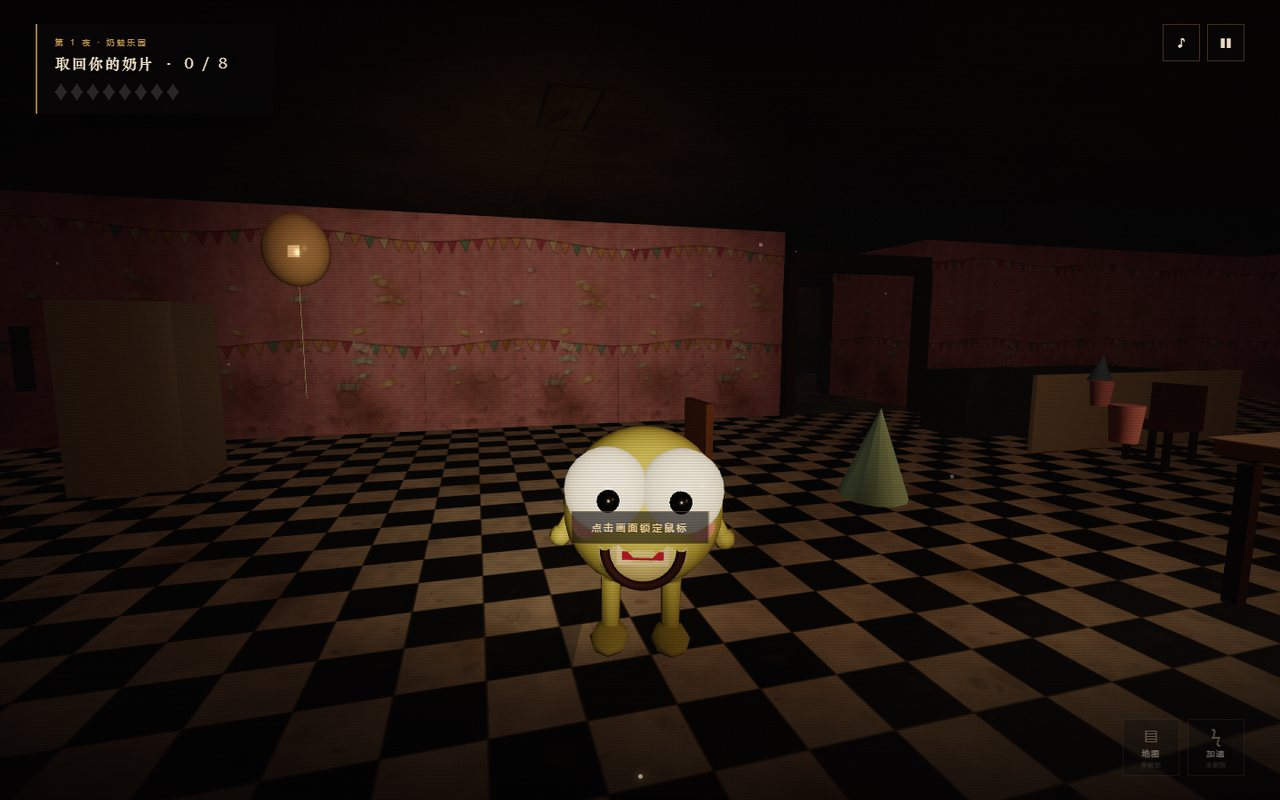
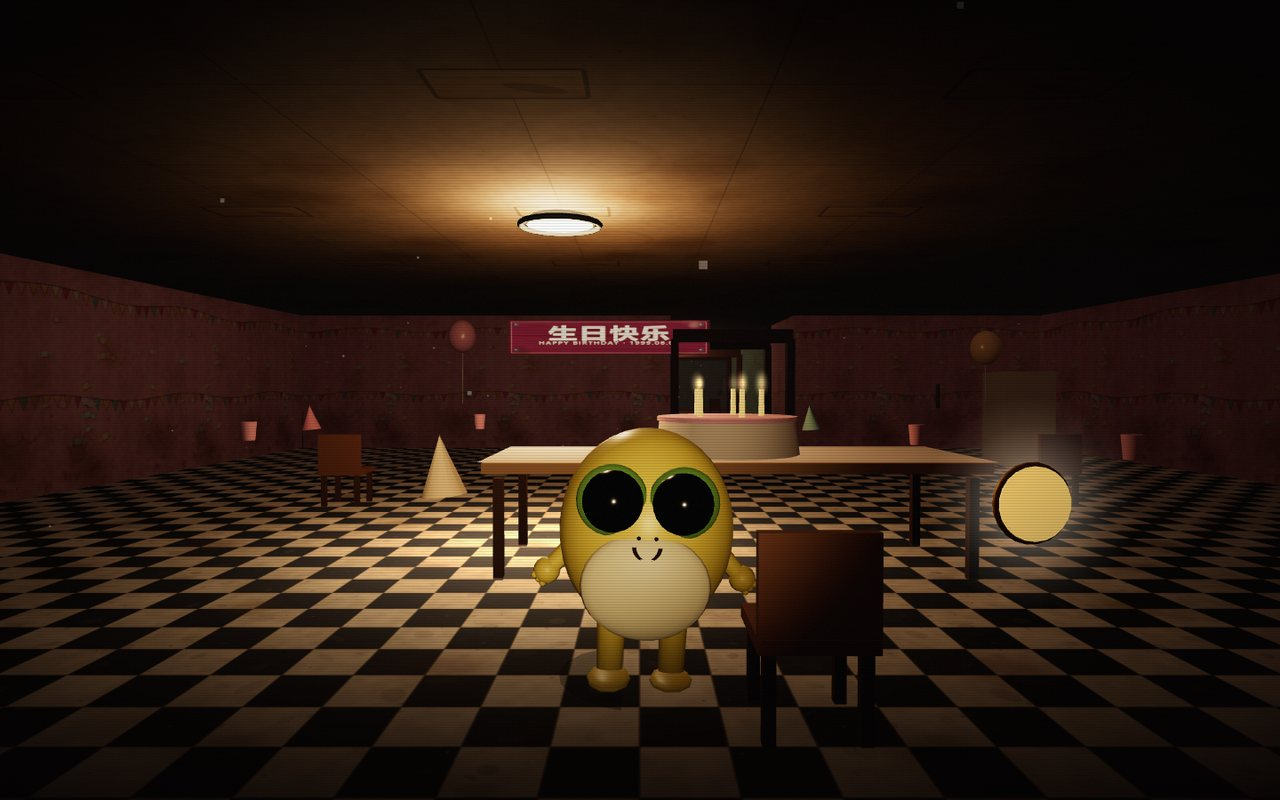
Redesign Milk Frog to match the Nailong-derived meme
- Replace generic cartoon frog with the yellow soft-body, green-ringed eyes, cream belly and tiny mouth of the 奶蛙 meme; no official assets used.
- Keep the cute blank face during idle, but split it open into an oversized laughing maw (teeth/tongue) when chasing or close.
- Rebuild the jump-scare face texture to match; update README screenshots and QA note.
- QA re-run after the visual-only change: 64/64 PASS, 0 console/pageerror.

diff --git a/src/frogs.js b/src/frogs.js
@@ -6,97 +6,130 @@ const C = GRID.cell;
 const clamp = (v, a, b) => Math.max(a, Math.min(b, v));
 const damp = (a, b, l, dt) => b + (a - b) * Math.exp(-l * dt);
 
+// 奶蛙 = 奶龙的 AI 变异体：黄色软胶身体、绿色圆眼、极小嘴；
+// 参考网络「奶蛙」表情包，不使用官方奶龙素材。靠近时裂开成大笑巨口。
 const VARIANTS = {
-  small: { bodyColor: 0xd6d46c, scale: 0.8, bodyScale: [1, 1.05, 0.95], eyeR: 0.25, legLen: 0.34, speed: 4.45, radius: 0.48 },
-  fat:   { bodyColor: 0xcec05a, scale: 1.28, bodyScale: [1.25, 1.0, 1.15], eyeR: 0.2, legLen: 0.26, speed: 4.15, radius: 0.66 },
-  tall:  { bodyColor: 0xc4c97d, scale: 1.02, bodyScale: [0.92, 1.2, 0.9], eyeR: 0.22, legLen: 0.85, speed: 4.35, radius: 0.5 },
+  small: { bodyColor: 0xf4d64a, scale: 0.78, bodyScale: [1.0, 1.14, 0.98], eyeR: 0.2, legLen: 0.3, speed: 4.45, radius: 0.48, seed: 1 },
+  fat:   { bodyColor: 0xf2d247, scale: 1.3, bodyScale: [1.2, 1.02, 1.12], eyeR: 0.17, legLen: 0.24, speed: 4.15, radius: 0.66, seed: 2 },
+  tall:  { bodyColor: 0xf6dc5a, scale: 1.0, bodyScale: [0.9, 1.34, 0.92], eyeR: 0.19, legLen: 0.55, speed: 4.35, radius: 0.5, seed: 3 },
 };
 
 function buildFrogModel(variant) {
   const v = VARIANTS[variant];
   const g = new THREE.Group();
-  const mat = new THREE.MeshStandardMaterial({ color: v.bodyColor, roughness: 0.55, metalness: 0.02 });
-  const belly = new THREE.MeshStandardMaterial({ color: 0xe8e3a8, roughness: 0.7 });
-  const white = new THREE.MeshStandardMaterial({ color: 0xf7f4e6, roughness: 0.25, emissive: 0xfff6dd, emissiveIntensity: 0.35 });
-  const black = new THREE.MeshStandardMaterial({ color: 0x0b0a08, roughness: 0.2 });
-  const mouthMat = new THREE.MeshStandardMaterial({ color: 0x40151b, roughness: 0.6 });
-  const pink = new THREE.MeshStandardMaterial({ color: 0xe8a0a8, roughness: 0.8 });
+  const yellow = new THREE.MeshStandardMaterial({ color: v.bodyColor, roughness: 0.38, metalness: 0.02, emissive: 0x3a2a05, emissiveIntensity: 0.12 });
+  const bellyMat = new THREE.MeshStandardMaterial({ color: 0xf7e9b6, roughness: 0.5 });
+  const irisMat = new THREE.MeshStandardMaterial({ color: 0x6f963c, roughness: 0.45, emissive: 0x1c2a08, emissiveIntensity: 0.4 });
+  const black = new THREE.MeshStandardMaterial({ color: 0x0a0906, roughness: 0.12 });
+  const shine = new THREE.MeshBasicMaterial({ color: 0xfff8e0 });
+  const mouthMat = new THREE.MeshStandardMaterial({ color: 0x3a1a12, roughness: 0.7 });
+  const toothMat = new THREE.MeshStandardMaterial({ color: 0xf3ead2, roughness: 0.35 });
+  const tongueMat = new THREE.MeshStandardMaterial({ color: 0xb9545c, roughness: 0.6 });
 
-  const body = new THREE.Mesh(new THREE.SphereGeometry(0.52, 22, 18), mat);
+  const bodyY = 0.78 + v.legLen;
+  const body = new THREE.Mesh(new THREE.SphereGeometry(0.62, 24, 20), yellow);
   body.scale.set(...v.bodyScale);
-  body.position.y = 0.58 + v.legLen;
+  body.position.y = bodyY;
   g.add(body);
 
-  const bellyMesh = new THREE.Mesh(new THREE.SphereGeometry(0.4, 18, 14), belly);
-  bellyMesh.scale.set(0.85, 0.9, 0.5);
-  bellyMesh.position.set(0, 0.52 + v.legLen, 0.28);
-  g.add(bellyMesh);
+  // 奶龙式奶油色肚皮
+  const belly = new THREE.Mesh(new THREE.SphereGeometry(0.42, 20, 16), bellyMat);
+  belly.scale.set(1.0, 0.82, 0.3);
+  belly.position.set(0, bodyY - 0.27, 0.55);
+  g.add(belly);
 
-  // 眼睛（前脸 +Z）
+  // 绿色大圆眼 + 黑瞳 + 高光（无眼白，参考奶蛙）
   const eyes = [];
   for (const s of [-1, 1]) {
-    const eye = new THREE.Mesh(new THREE.SphereGeometry(v.eyeR, 16, 12), white);
-    eye.position.set(s * 0.22, 0.78 + v.legLen, 0.36);
-    g.add(eye);
-    const pupil = new THREE.Mesh(new THREE.SphereGeometry(v.eyeR * 0.26, 10, 8), black);
-    pupil.position.set(s * 0.2, 0.78 + v.legLen, 0.36 + v.eyeR * 0.92);
+    const jitter = (v.seed - 2) * 0.006;
+    const ring = new THREE.Mesh(new THREE.SphereGeometry(v.eyeR * 1.16, 18, 14), irisMat);
+    ring.scale.set(1, 1, 0.42);
+    ring.position.set(s * 0.23 + jitter, bodyY + 0.27, 0.52);
+    g.add(ring);
+    const pupil = new THREE.Mesh(new THREE.SphereGeometry(v.eyeR, 16, 12), black);
+    pupil.position.set(s * 0.225 + jitter, bodyY + 0.27, 0.55);
     g.add(pupil);
-    eyes.push({ eye, pupil });
+    const highlight = new THREE.Mesh(new THREE.SphereGeometry(v.eyeR * 0.18, 8, 6), shine);
+    highlight.position.set(s * 0.225 + jitter - 0.04, bodyY + 0.31, 0.62);
+    g.add(highlight);
+    eyes.push({ ring, pupil, highlight });
   }
-  // 微笑
-  const mouth = new THREE.Mesh(new THREE.TorusGeometry(0.22, 0.028, 6, 22, Math.PI), mouthMat);
-  mouth.position.set(0, 0.46 + v.legLen, 0.47);
+
+  // 极小的一条嘴
+  const mouth = new THREE.Mesh(new THREE.TorusGeometry(0.082, 0.013, 6, 18, Math.PI), mouthMat);
+  mouth.position.set(0, bodyY + 0.0, 0.64);
   mouth.rotation.z = Math.PI;
   g.add(mouth);
-  // 腮红
+  // 两个小鼻孔
   for (const s of [-1, 1]) {
-    const cheek = new THREE.Mesh(new THREE.CircleGeometry(0.085, 12), pink);
-    cheek.position.set(s * 0.34, 0.58 + v.legLen, 0.42);
-    cheek.rotation.y = s * 0.35;
-    g.add(cheek);
+    const nose = new THREE.Mesh(new THREE.SphereGeometry(0.013, 6, 5), black);
+    nose.position.set(s * 0.055, bodyY + 0.055, 0.635);
+    g.add(nose);
   }
-  // 手
+
+  // 靠近/追逐时才裂开的大笑巨口（参考表情包里失控的奶蛙）
+  const scary = new THREE.Group();
+  scary.position.set(0, bodyY - 0.16, 0.625);
+  const cavity = new THREE.Mesh(new THREE.SphereGeometry(0.27, 20, 16), black);
+  cavity.scale.set(1.18, 0.9, 0.22);
+  scary.add(cavity);
+  for (let i = 0; i < 5; i++) {
+    const tooth = new THREE.Mesh(new THREE.BoxGeometry(0.055, 0.07, 0.02), toothMat);
+    tooth.position.set(-0.16 + i * 0.08, 0.16, 0.055);
+    scary.add(tooth);
+  }
+  for (let i = 0; i < 4; i++) {
+    const tooth = new THREE.Mesh(new THREE.BoxGeometry(0.05, 0.055, 0.02), toothMat);
+    tooth.position.set(-0.12 + i * 0.08, -0.16, 0.055);
+    scary.add(tooth);
+  }
+  const tongue = new THREE.Mesh(new THREE.SphereGeometry(0.16, 12, 10), tongueMat);
+  tongue.scale.set(1, 0.5, 0.25);
+  tongue.position.set(0, -0.07, 0.06);
+  scary.add(tongue);
+  scary.visible = false;
+  g.add(scary);
+
+  // 短手（带小手指）
   const arms = [];
   for (const s of [-1, 1]) {
-    const arm = new THREE.Mesh(new THREE.CylinderGeometry(0.055, 0.05, 0.34, 7), mat);
-    arm.position.set(s * 0.44, 0.55 + v.legLen, 0.08);
-    arm.rotation.z = s * 0.5;
+    const arm = new THREE.Mesh(new THREE.CylinderGeometry(0.07, 0.062, 0.34, 8), yellow);
+    arm.position.set(s * 0.56 * v.bodyScale[0], bodyY - 0.18, 0.06);
+    arm.rotation.z = s * 0.75;
     g.add(arm);
-    const hand = new THREE.Mesh(new THREE.SphereGeometry(0.07, 8, 6), mat);
-    hand.position.y = -0.18;
+    const hand = new THREE.Mesh(new THREE.SphereGeometry(0.095, 10, 8), yellow);
+    hand.position.y = -0.19;
     arm.add(hand);
+    for (let f = -1; f <= 1; f++) {
+      const finger = new THREE.Mesh(new THREE.SphereGeometry(0.026, 6, 5), yellow);
+      finger.position.set(f * 0.04, -0.075, 0.03);
+      hand.add(finger);
+    }
     arms.push(arm);
   }
-  // 腿
+  // 短腿 + 扁脚
   const legs = [];
   for (const s of [-1, 1]) {
-    const leg = new THREE.Mesh(new THREE.CylinderGeometry(0.07, 0.06, v.legLen + 0.1, 7), mat);
-    leg.position.set(s * 0.2, v.legLen / 2 + 0.03, 0);
+    const leg = new THREE.Mesh(new THREE.CylinderGeometry(0.105, 0.09, v.legLen + 0.14, 9), yellow);
+    leg.position.set(s * 0.22, (v.legLen + 0.14) / 2, 0);
     g.add(leg);
-    const foot = new THREE.Mesh(new THREE.SphereGeometry(0.13, 8, 6), mat);
-    foot.scale.set(1, 0.45, 1.7);
-    foot.position.set(0, -v.legLen / 2 + 0.02, 0.08);
+    const foot = new THREE.Mesh(new THREE.SphereGeometry(0.15, 10, 8), yellow);
+    foot.scale.set(1.05, 0.38, 1.5);
+    foot.position.set(0, -(v.legLen + 0.14) / 2 + 0.02, 0.08);
     leg.add(foot);
     legs.push(leg);
   }
-  // 胸牌
-  const sign = new THREE.Mesh(new THREE.PlaneGeometry(0.3, 0.12), new THREE.MeshStandardMaterial({ color: 0xf3e6c8, roughness: 1 }));
-  sign.position.set(0, 0.42 + v.legLen, 0.46);
-  g.add(sign);
-  const name = new THREE.Mesh(new THREE.PlaneGeometry(0.24, 0.05), new THREE.MeshBasicMaterial({ color: 0x9d2a2a }));
-  name.position.set(0, 0.42 + v.legLen, 0.466);
-  g.add(name);
 
   const shadow = new THREE.Mesh(
-    new THREE.CircleGeometry(0.55, 16),
-    new THREE.MeshBasicMaterial({ color: 0x000000, transparent: true, opacity: 0.32, depthWrite: false }),
+    new THREE.CircleGeometry(0.58, 18),
+    new THREE.MeshBasicMaterial({ color: 0x000000, transparent: true, opacity: 0.34, depthWrite: false }),
   );
   shadow.rotation.x = -Math.PI / 2;
   shadow.position.y = 0.012;
   g.add(shadow);
 
   g.scale.setScalar(v.scale);
-  return { group: g, body, belly: bellyMesh, eyes, arms, legs, mouth, shadow, variant: v };
+  return { group: g, body, belly, eyes, arms, legs, mouth, scary, shadow, variant: v };
 }
 
 class Frog {
@@ -287,24 +320,47 @@ class Frog {
   animate(dt, time, speed, dazed) {
     const m = this.model;
     const t = time + this.index * 2.1;
+    const dist = this.distanceToPlayer;
     if (dazed) {
       this.group.rotation.z = Math.sin(t * 8) * 0.12;
       m.body.rotation.y = t * 2;
-      m.eyes.forEach((e, i) => { e.eye.rotation.z = t * 5 * (i ? 1 : -1); });
+      m.eyes.forEach((e, i) => { e.pupil.rotation.z = t * 5 * (i ? 1 : -1); });
+      m.scary.visible = false;
+      m.mouth.visible = true;
       this.group.position.y = this.pos.y + Math.abs(Math.sin(t * 5)) * 0.03;
       return;
     }
     const bob = Math.sin(t * (speed > 0.2 ? 9 : 1.8)) * (speed > 0.2 ? 0.045 : 0.015);
     this.group.position.y = this.pos.y + bob;
     this.group.rotation.z = Math.sin(t * (speed > 0.2 ? 8 : 1.6)) * 0.045;
-    m.body.scale.y = 1 + Math.sin(t * 7) * (speed > 0.2 ? 0.035 : 0.012);
+    const baseY = m.variant.bodyScale[1];
+    m.body.scale.y = baseY * (1 + Math.sin(t * 7) * (speed > 0.2 ? 0.035 : 0.012));
     m.legs[0].rotation.x = Math.sin(t * 9) * 0.35 * Math.min(1, speed * 0.4);
     m.legs[1].rotation.x = -Math.sin(t * 9) * 0.35 * Math.min(1, speed * 0.4);
     m.arms[0].rotation.x = -Math.sin(t * 9) * 0.3 * Math.min(1, speed * 0.4);
     m.arms[1].rotation.x = Math.sin(t * 9) * 0.3 * Math.min(1, speed * 0.4);
+    // 越近越失控：小嘴裂成表情包里的大笑巨口
+    const open = this.state === 'chase' && dist < 10.5;
+    m.scary.visible = open;
+    m.mouth.visible = !open;
+    if (open) {
+      const k = clamp((11 - dist) / 7, 0, 1);
+      m.scary.scale.set(0.8 + 0.35 * k, 0.8 + 0.3 * k, 1);
+      m.scary.position.y = (0.78 + m.variant.legLen) - 0.16;
+      for (const e of m.eyes) {
+        e.pupil.scale.setScalar(1 + 0.16 * k);
+        e.ring.scale.z = 0.42;
+      }
+    } else {
+      for (const e of m.eyes) e.pupil.scale.setScalar(1);
+    }
     if (m.eyes) {
       const blink = (Math.sin(t * 0.7) > 0.985) ? 0.12 : 1;
-      for (const e of m.eyes) e.eye.scale.y = blink;
+      for (const e of m.eyes) {
+        e.ring.scale.y = blink;
+        e.pupil.scale.y = blink;
+        e.highlight.scale.y = blink;
+      }
     }
   }
 

diff --git a/src/textures.js b/src/textures.js
@@ -3586,40 +3586,81 @@ export function createTextures() {
       return memo('frogFace', () => {
         const surface = mkCanvas(TILE, TILE);
         const ctx = surface.ctx;
-        /* 整张皮肤 */
-        const g = ctx.createLinearGradient(0, 0, 0, TILE);
-        g.addColorStop(0, '#dceb92');
-        g.addColorStop(0.55, '#bed668');
-        g.addColorStop(1, '#9db94e');
-        ctx.fillStyle = g;
+        /* 奶蛙：AI 变异奶龙的黄色软胶皮肤，近距离贴脸时的大笑表情 */
+        const skin = ctx.createRadialGradient(256, 220, 40, 256, 256, 380);
+        skin.addColorStop(0, '#ffe168');
+        skin.addColorStop(0.55, '#f4d342');
+        skin.addColorStop(1, '#c9a322');
+        ctx.fillStyle = skin;
         ctx.fillRect(0, 0, TILE, TILE);
-        /* 皮肤颗粒 */
-        applyGrain(ctx, TILE, TILE, { seed: hashSeed('frog-skin'), grain: 12, mottle: 0.08, cells: 6 });
-        const rnd = mulberry32(hashSeed('frog-skin-speckle'));
-        for (let i = 0; i < 70; i++) {
-          const x = rnd() * TILE;
-          const y = rnd() * TILE;
-          const r = 1 + rnd() * 4;
-          dot(ctx, x, y, r, rnd() > 0.4 ? '#8fae45' : '#d7e79c', 0.18 + rnd() * 0.25);
+        applyGrain(ctx, TILE, TILE, { seed: hashSeed('naiwa-skin'), grain: 10, mottle: 0.07, cells: 5 });
+        const rnd = mulberry32(hashSeed('naiwa-specks'));
+        for (let i = 0; i < 90; i++) {
+          dot(ctx, rnd() * TILE, rnd() * TILE, 1 + rnd() * 3, rnd() > 0.5 ? '#e6c23c' : '#ffe89a', 0.1 + rnd() * 0.18);
         }
-        /* 五官 */
-        drawFrogHead(ctx, 256, 248, 198, {
-          seed: 'frog-face',
-          headFill: false,
-          pupilX: 0.015,
-          pupilY: 0.025,
-          pupilScale: 0.15,
-          blush: 0.4,
-          milk: true,
-          mouthWide: 1.05,
-        });
-        /* 四周压暗，球体感 */
-        const vig = ctx.createRadialGradient(256, 256, 150, 256, 256, 365);
-        vig.addColorStop(0, 'rgba(20,30,8,0)');
-        vig.addColorStop(1, 'rgba(20,30,8,0.55)');
+        /* 两只大圆眼：绿色虹膜 + 黑瞳 + 高光；刻意略不对称 */
+        const eyes = [
+          { x: 168, y: 170, r: 78, px: 5, py: 6, pr: 53 },
+          { x: 344, y: 166, r: 74, px: -6, py: 4, pr: 49 },
+        ];
+        for (const e of eyes) {
+          const iris = ctx.createRadialGradient(e.x, e.y, e.r * 0.2, e.x, e.y, e.r);
+          iris.addColorStop(0, '#8fae43');
+          iris.addColorStop(0.72, '#6c8f36');
+          iris.addColorStop(1, '#3f5a1c');
+          ctx.fillStyle = iris;
+          ctx.beginPath(); ctx.arc(e.x, e.y, e.r, 0, TAU); ctx.fill();
+          const pupil = ctx.createRadialGradient(e.x + e.px, e.y + e.py, 2, e.x + e.px, e.y + e.py, e.pr);
+          pupil.addColorStop(0, '#1b1a13');
+          pupil.addColorStop(0.82, '#070705');
+          pupil.addColorStop(1, '#241f0b');
+          ctx.fillStyle = pupil;
+          ctx.beginPath(); ctx.arc(e.x + e.px, e.y + e.py, e.pr, 0, TAU); ctx.fill();
+          ctx.fillStyle = 'rgba(255,250,226,.92)';
+          ctx.beginPath(); ctx.arc(e.x - e.r * 0.28, e.y - e.r * 0.3, e.r * 0.1, 0, TAU); ctx.fill();
+          ctx.strokeStyle = 'rgba(30,40,10,.55)';
+          ctx.lineWidth = 3;
+          ctx.beginPath(); ctx.arc(e.x, e.y, e.r, 0, TAU); ctx.stroke();
+        }
+        /* 两个小鼻孔 */
+        ctx.fillStyle = '#4b3a12';
+        ctx.beginPath(); ctx.ellipse(238, 252, 6, 5, 0, 0, TAU); ctx.fill();
+        ctx.beginPath(); ctx.ellipse(274, 252, 6, 5, 0, 0, TAU); ctx.fill();
+        /* 裂开的巨口 + 人牙 + 舌头 */
+        const mouth = ctx.createRadialGradient(256, 400, 20, 256, 410, 170);
+        mouth.addColorStop(0, '#2a0b09');
+        mouth.addColorStop(0.65, '#160403');
+        mouth.addColorStop(1, '#080101');
+        ctx.fillStyle = mouth;
+        ctx.beginPath();
+        ctx.ellipse(256, 338, 140, 70, 0, 0, TAU);
+        ctx.fill();
+        ctx.strokeStyle = 'rgba(80,44,12,.75)';
+        ctx.lineWidth = 12;
+        ctx.beginPath(); ctx.ellipse(256, 338, 140, 70, 0, 0, TAU); ctx.stroke();
+        ctx.fillStyle = '#f1e6c8';
+        for (let i = 0; i < 6; i++) {
+          const x = 132 + i * 50;
+          const r = 12 + Math.abs(i - 2.5) * 2;
+          ctx.beginPath(); ctx.roundRect(x - 17, 278, 34, 36 + r, 9); ctx.fill();
+        }
+        for (let i = 0; i < 5; i++) {
+          const x = 158 + i * 50;
+          ctx.beginPath(); ctx.roundRect(x - 15, 382, 30, 28, 8); ctx.fill();
+        }
+        const tongue = ctx.createRadialGradient(256, 484, 8, 256, 490, 90);
+        tongue.addColorStop(0, '#d06a72');
+        tongue.addColorStop(1, '#7e2f38');
+        ctx.fillStyle = tongue;
+        ctx.beginPath(); ctx.ellipse(256, 398, 76, 24, 0, 0, TAU); ctx.fill();
+        /* 暗角与颗粒 */
+        const vig = ctx.createRadialGradient(256, 256, 140, 256, 256, 370);
+        vig.addColorStop(0, 'rgba(10,6,2,0)');
+        vig.addColorStop(0.72, 'rgba(10,6,2,.18)');
+        vig.addColorStop(1, 'rgba(10,6,2,.78)');
         ctx.fillStyle = vig;
         ctx.fillRect(0, 0, TILE, TILE);
-        addDust(ctx, TILE, TILE, hashSeed('frog-face-dust'), 40);
+        addDust(ctx, TILE, TILE, hashSeed('naiwa-dust'), 60);
         return makeTexture(surface.canvas, false, 'frogFace', { kind: 'frogFace' });
       });
     },

diff --git a/styles.css b/styles.css
@@ -595,7 +595,8 @@ kbd {
 
 /* ============================== 转场 ============================== */
 .jumpscare { position: fixed; inset: 0; z-index: 45; background: #080303; display: flex; align-items: center; justify-content: center; overflow: hidden; pointer-events: none; }
-.jumpscare img { width: 112%; height: 112%; object-fit: cover; filter: contrast(1.25) saturate(1.15) brightness(.92); animation: scare 2.3s var(--ease) both; }
+.jumpscare { background: radial-gradient(ellipse at 50% 50%, #f6d94a 0%, #b98f22 48%, #120a05 100%); }
+.jumpscare img { width: 100%; height: 100%; object-fit: cover; filter: contrast(1.18) saturate(1.12) brightness(.92); animation: scare 2.3s var(--ease) both; }
 .jumpscare::after { content: ""; position: absolute; inset: 0; background: radial-gradient(ellipse at 50% 45%, transparent 30%, rgba(120, 6, 12, .55) 100%), repeating-linear-gradient(to bottom, transparent 0 3px, rgba(0, 0, 0, .35) 3px 4px); }
 @keyframes scare {
   0% { transform: scale(1.35) rotate(-2deg); opacity: 0; }

diff --git a/W05_GroupID.md b/W05_GroupID.md
@@ -24,12 +24,12 @@ Harness/model(s), why selected, and material AI help:
 
 Representative AI interaction — one prompt, short response or resulting change, and what we checked before keeping it:
 - **Prompt（给「贴图子代理」的节选）：** “实现 `src/textures.js`：纯 Canvas 2D 程序化贴图，零外部图片；6 个区域（门厅/教室/午睡室/食堂/走廊/出口）的墙、地、顶、墙裙；海报、中文标牌、奶蛙正脸；严格导出 `createTextures()` 与指定 API；每个区域风格统一且温馨惊悚。”
-- **Result：** 生成了约 122 KB（124,870 字节）的 `src/textures.js`（36 张 CanvasTexture）、`tools/texture-preview.html` 预览页与 `docs/TEXTURES.md`；贴图被游戏实际使用（墙纸、棋盘地砖、生日横幅、海报、安全出口牌、奶蛙脸）。
+- **Result：** 生成了约 125 KB（127,568 字节）的 `src/textures.js`（36 张 CanvasTexture）、`tools/texture-preview.html` 预览页与 `docs/TEXTURES.md`；贴图被游戏实际使用（墙纸、棋盘地砖、生日横幅、海报、安全出口牌、奶蛙脸）。
 - **What we checked before keeping it：** 用 102 条契约断言检查 API/尺寸/颜色空间/平铺参数；在 Edge 打开预览页确认 0 console error / 0 pageerror；查看整页与局部截图（墙地接缝、7 张海报、标牌、奶蛙脸）；确认游戏内有兜底贴图 `textures-fallback.js`，即使该模块异常也不会黑屏。检查后保留了这一版，并对过暗的午睡室与出口曝光做了人工调灯。
 
 Outside assets and credits (or None):
 - **Three.js 0.160.0** — MIT License，本地 vendored 于 `vendor/three.module.js`，运行时不访问 CDN。
-- **无其他外部素材。** 所有几何、贴图、灯光、音效、音乐、旁白均由本组使用代码 / Windows 中文 TTS 生成；未使用第三方图片、模型、录音或官方「奶龙 / 奶蛙」版权素材。奶蛙为原创低多边形二创形象，只呼应网络梗的「感觉」。
+- **无其他外部素材。** 所有几何、贴图、灯光、音效、音乐、旁白均由本组使用代码 / Windows 中文 TTS 生成；未使用第三方图片、模型、录音或官方「奶龙 / 奶蛙」版权素材。奶蛙为原创低多边形二创：参考网络「奶蛙」表情包的黄体、绿眼、小嘴与变异大笑，用几何与 Canvas 重建，不复制具体图片。
 - AI 生成的音频与贴图在 `docs/AUDIO.md`、`docs/TEXTURES.md` 中有生成方法与声明。
 
 Known issue (or None):

diff --git a/docs/QA.md b/docs/QA.md
@@ -1,10 +1,12 @@
 # 《奶蛙乐园：午夜奶片》独立 QA 验收报告
 
-- 验收对象：D:/3dgame/starfall-salvage-w05 工作树（Lead 宣布冻结后的版本）
-- 验收时间：2026-10-29 20:47:33（HKT，UTC+8；报告 JSON 中为 12:47:33Z）开始，耗时约 203 秒
+- 验收对象：D:/3dgame/starfall-salvage-w05 工作树（奶蛙外观按用户参考图重做后的版本）
+- 验收时间：2026-10-29 21:23:09（HKT，UTC+8；报告 JSON 中为 13:23:09Z）开始，耗时约 203 秒
 - 验收执行：独立 QA 代理（浏览器自动化；未改游戏源码、README、资产）
 - 报告文件：tools/qa/out/report.json（机器可读，64 项逐条记录）
 - 自动化脚本：tools/qa/full.mjs（可重复运行）
+
+> **复跑记录：** 早期 QA 之后，Lead 按用户提供的「奶蛙」参考图重做了 3D 外观与 Jumpscare 贴图（玩法、流程、音频、关卡数据未改）。2026-10-29 21:23 在稳定的 threaded 静态服务器上完整复跑，**64/64 再次全部 PASS**，0 console error / 0 pageerror；本报告与截图对应当前版本。
 
 ## 1. 结论
 
